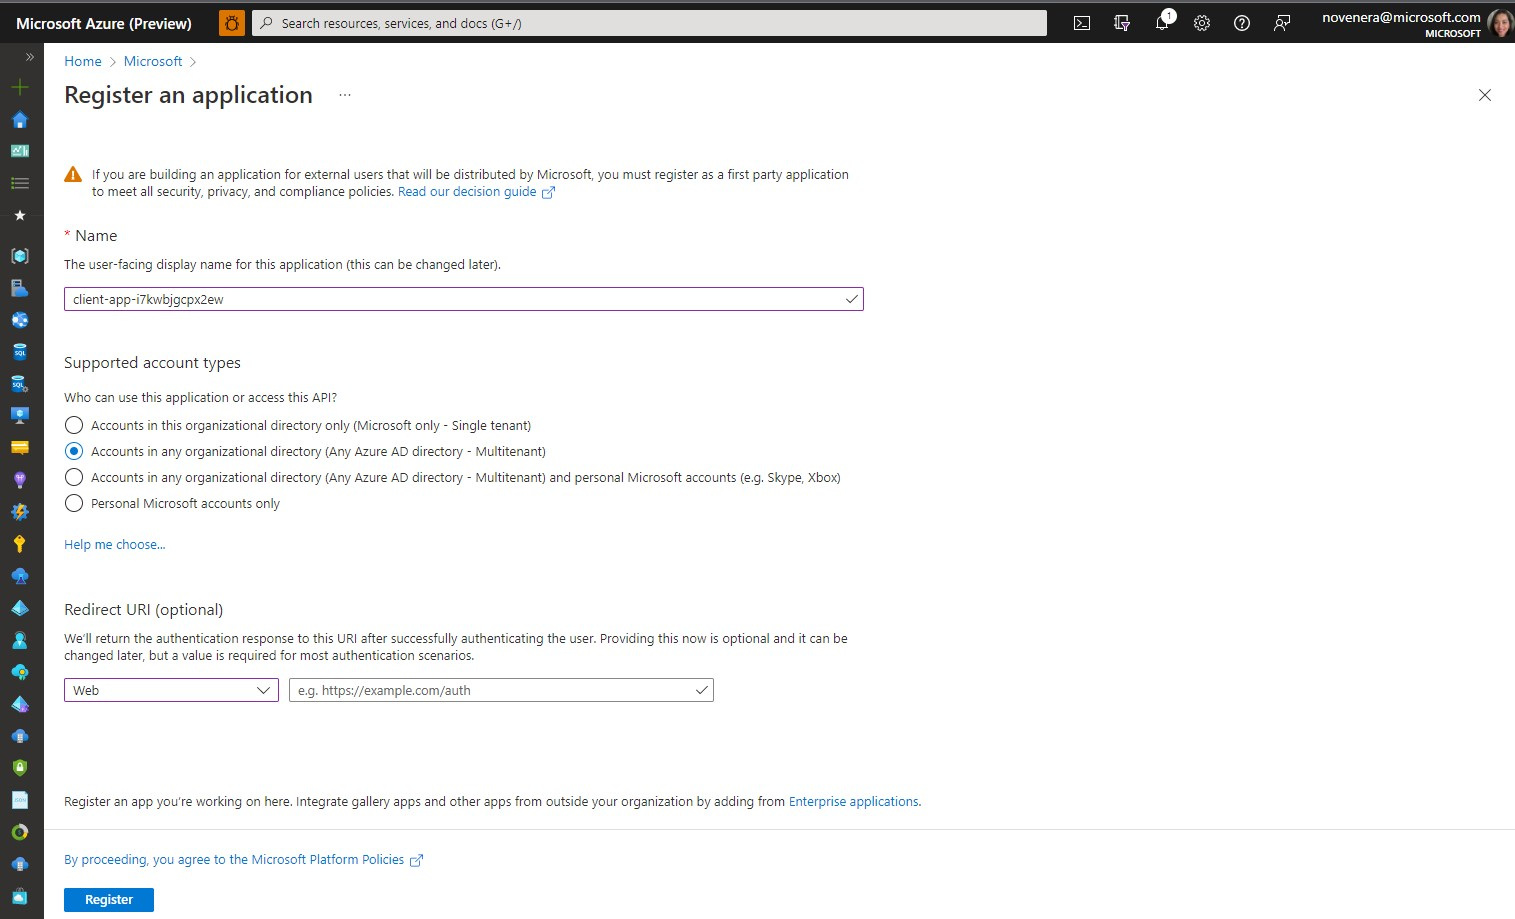
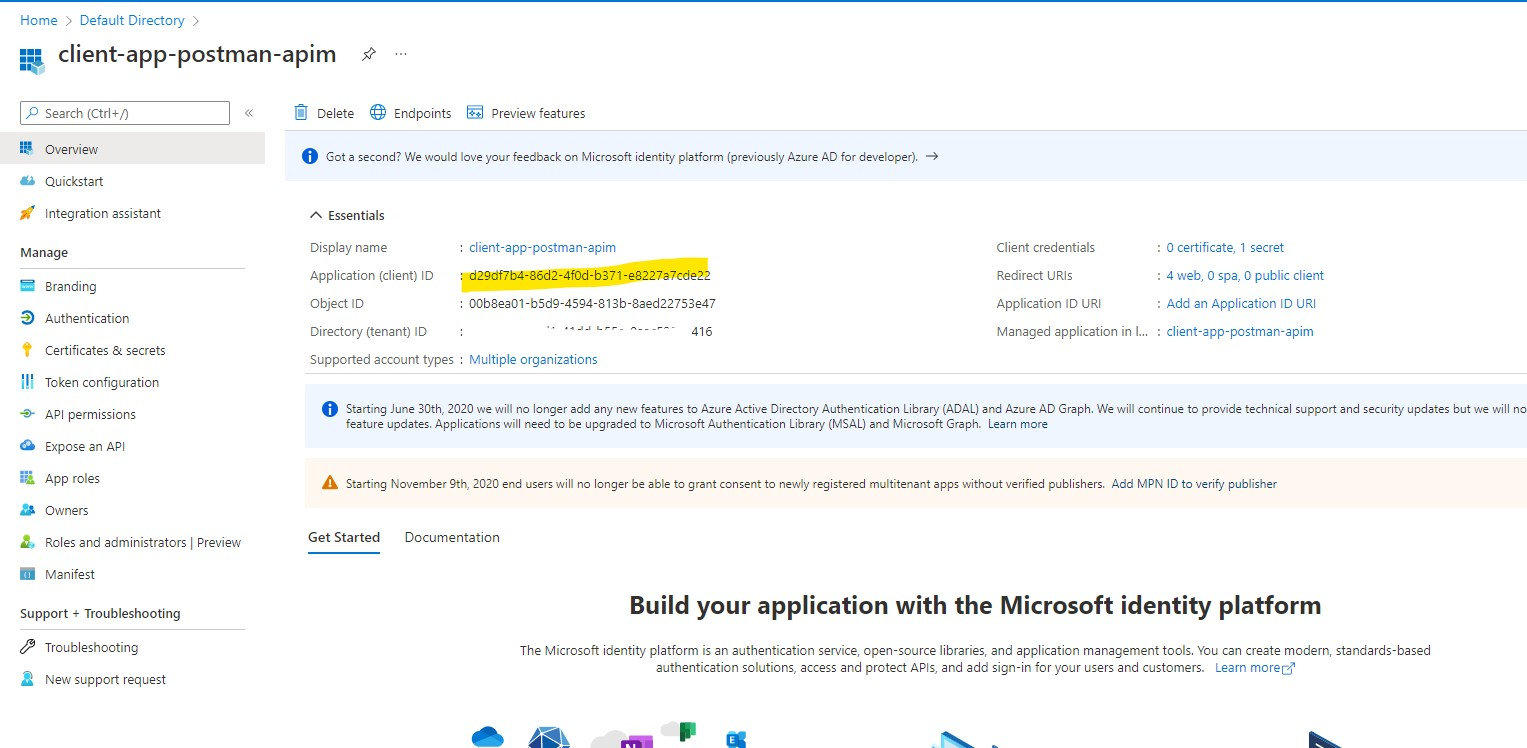
added content for Step 2

diff --git a/044-AzureIntegrationServices/Coach/Solution-04.md b/044-AzureIntegrationServices/Coach/Solution-04.md
@@ -14,7 +14,12 @@ The students should be able configure OAuth2 authorization when calling Hello AP
         ![Enable backend-app AAD app reg settings 2](./images/Solution04_Enable_ADAuth_BackendApp_2.jpg)
         ![Enable backend-app AAD app reg settings 3](./images/Solution04_Enable_ADAuth_BackendApp_3.jpg)
         ![Enable backend-app AAD app reg settings 4](./images/Solution04_Enable_ADAuth_BackendApp_4.jpg)
-    - Next, in the "Add an identity provider" blade, configure the settings per below.  Click Add when done.
+    - Step [2. Register another application in Azure AD to represent a client application] (https://docs.microsoft.com/en-us/azure/api-management/api-management-howto-protect-backend-with-aad#2-register-another-application-in-azure-ad-to-represent-a-client-application), the client app registration would look like below:
+        ![Enable client-app AAD app reg settings 1](./images/Solution04_Enable_ADAuth_ClientApp_1.jpg)
+        ![Enable client-app AAD app reg settings 2](./images/Solution04_Enable_ADAuth_ClientApp_2.jpg)
+        ![Enable client-app AAD app reg settings 3](./images/Solution04_Enable_ADAuth_ClientApp_3.jpg)
+        ![Enable client-app AAD app reg settings 4](./images/Solution04_Enable_ADAuth_ClientApp_4.jpg)
+
         ![Configure AD Authentication settings for HelloAPI](./images/Solution04_Enable_ADAuth_HelloAPI_2.jpg)
     - You will be redirected back to the Authentication page, now showing the authentication settings for your Function app.  Click AD application link (highlighted) to proceed to the next step.  Record the Application (client) ID of the API app for later.
         ![Edit HelloAPI AD Auth settings](./images/Solution04_Enable_ADAuth_HelloAPI_3.jpg)
